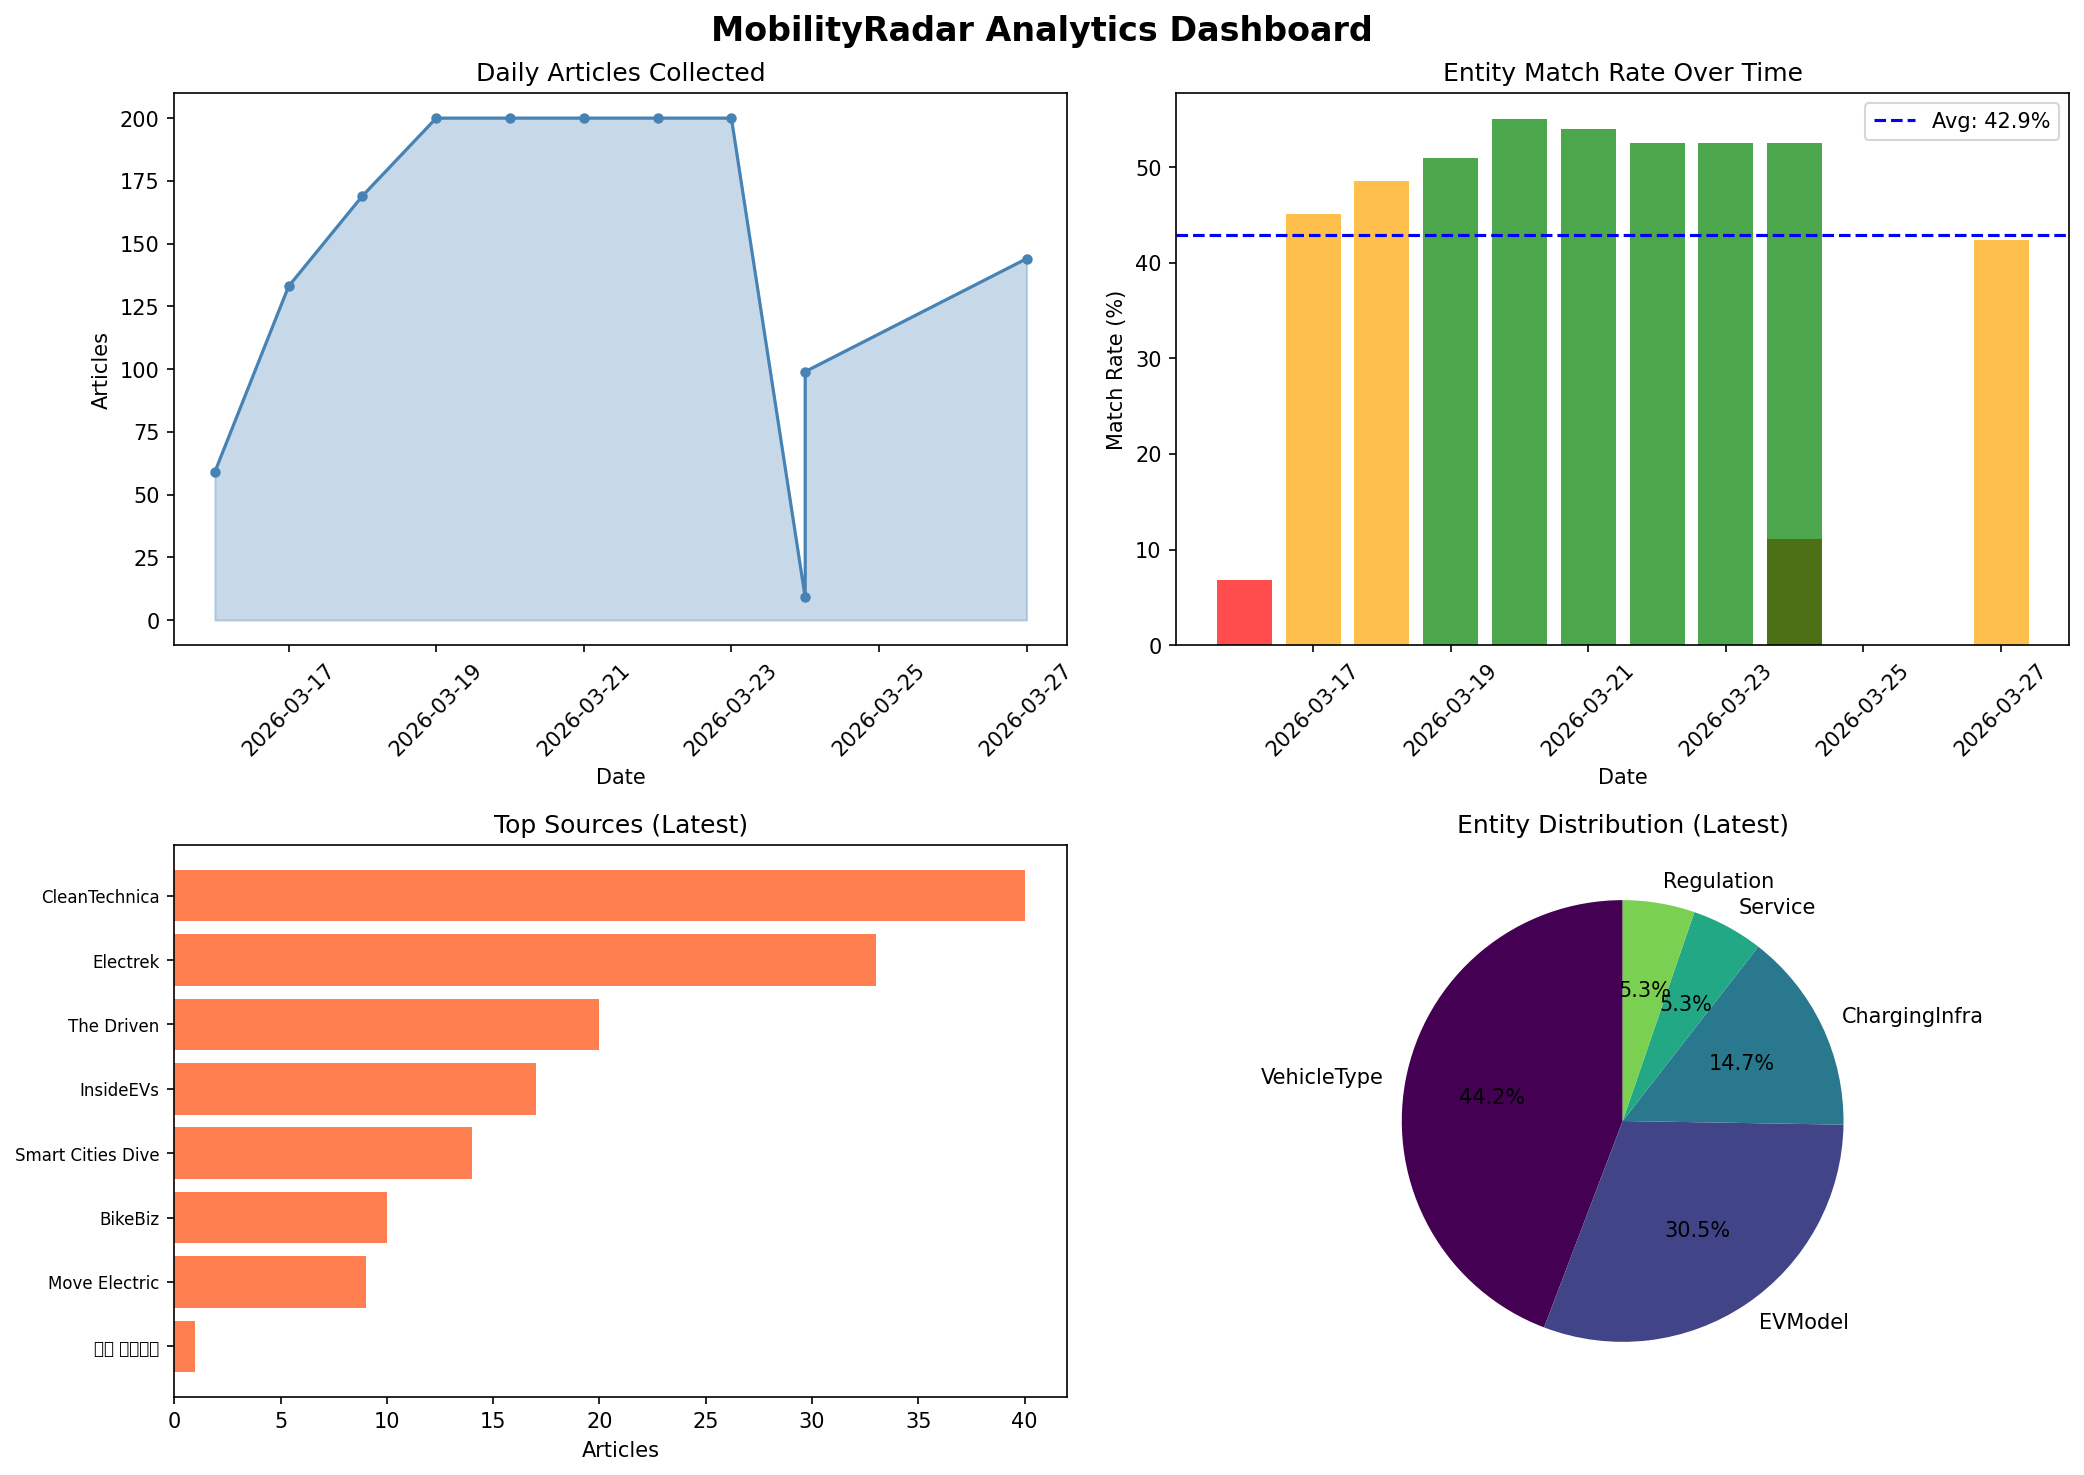
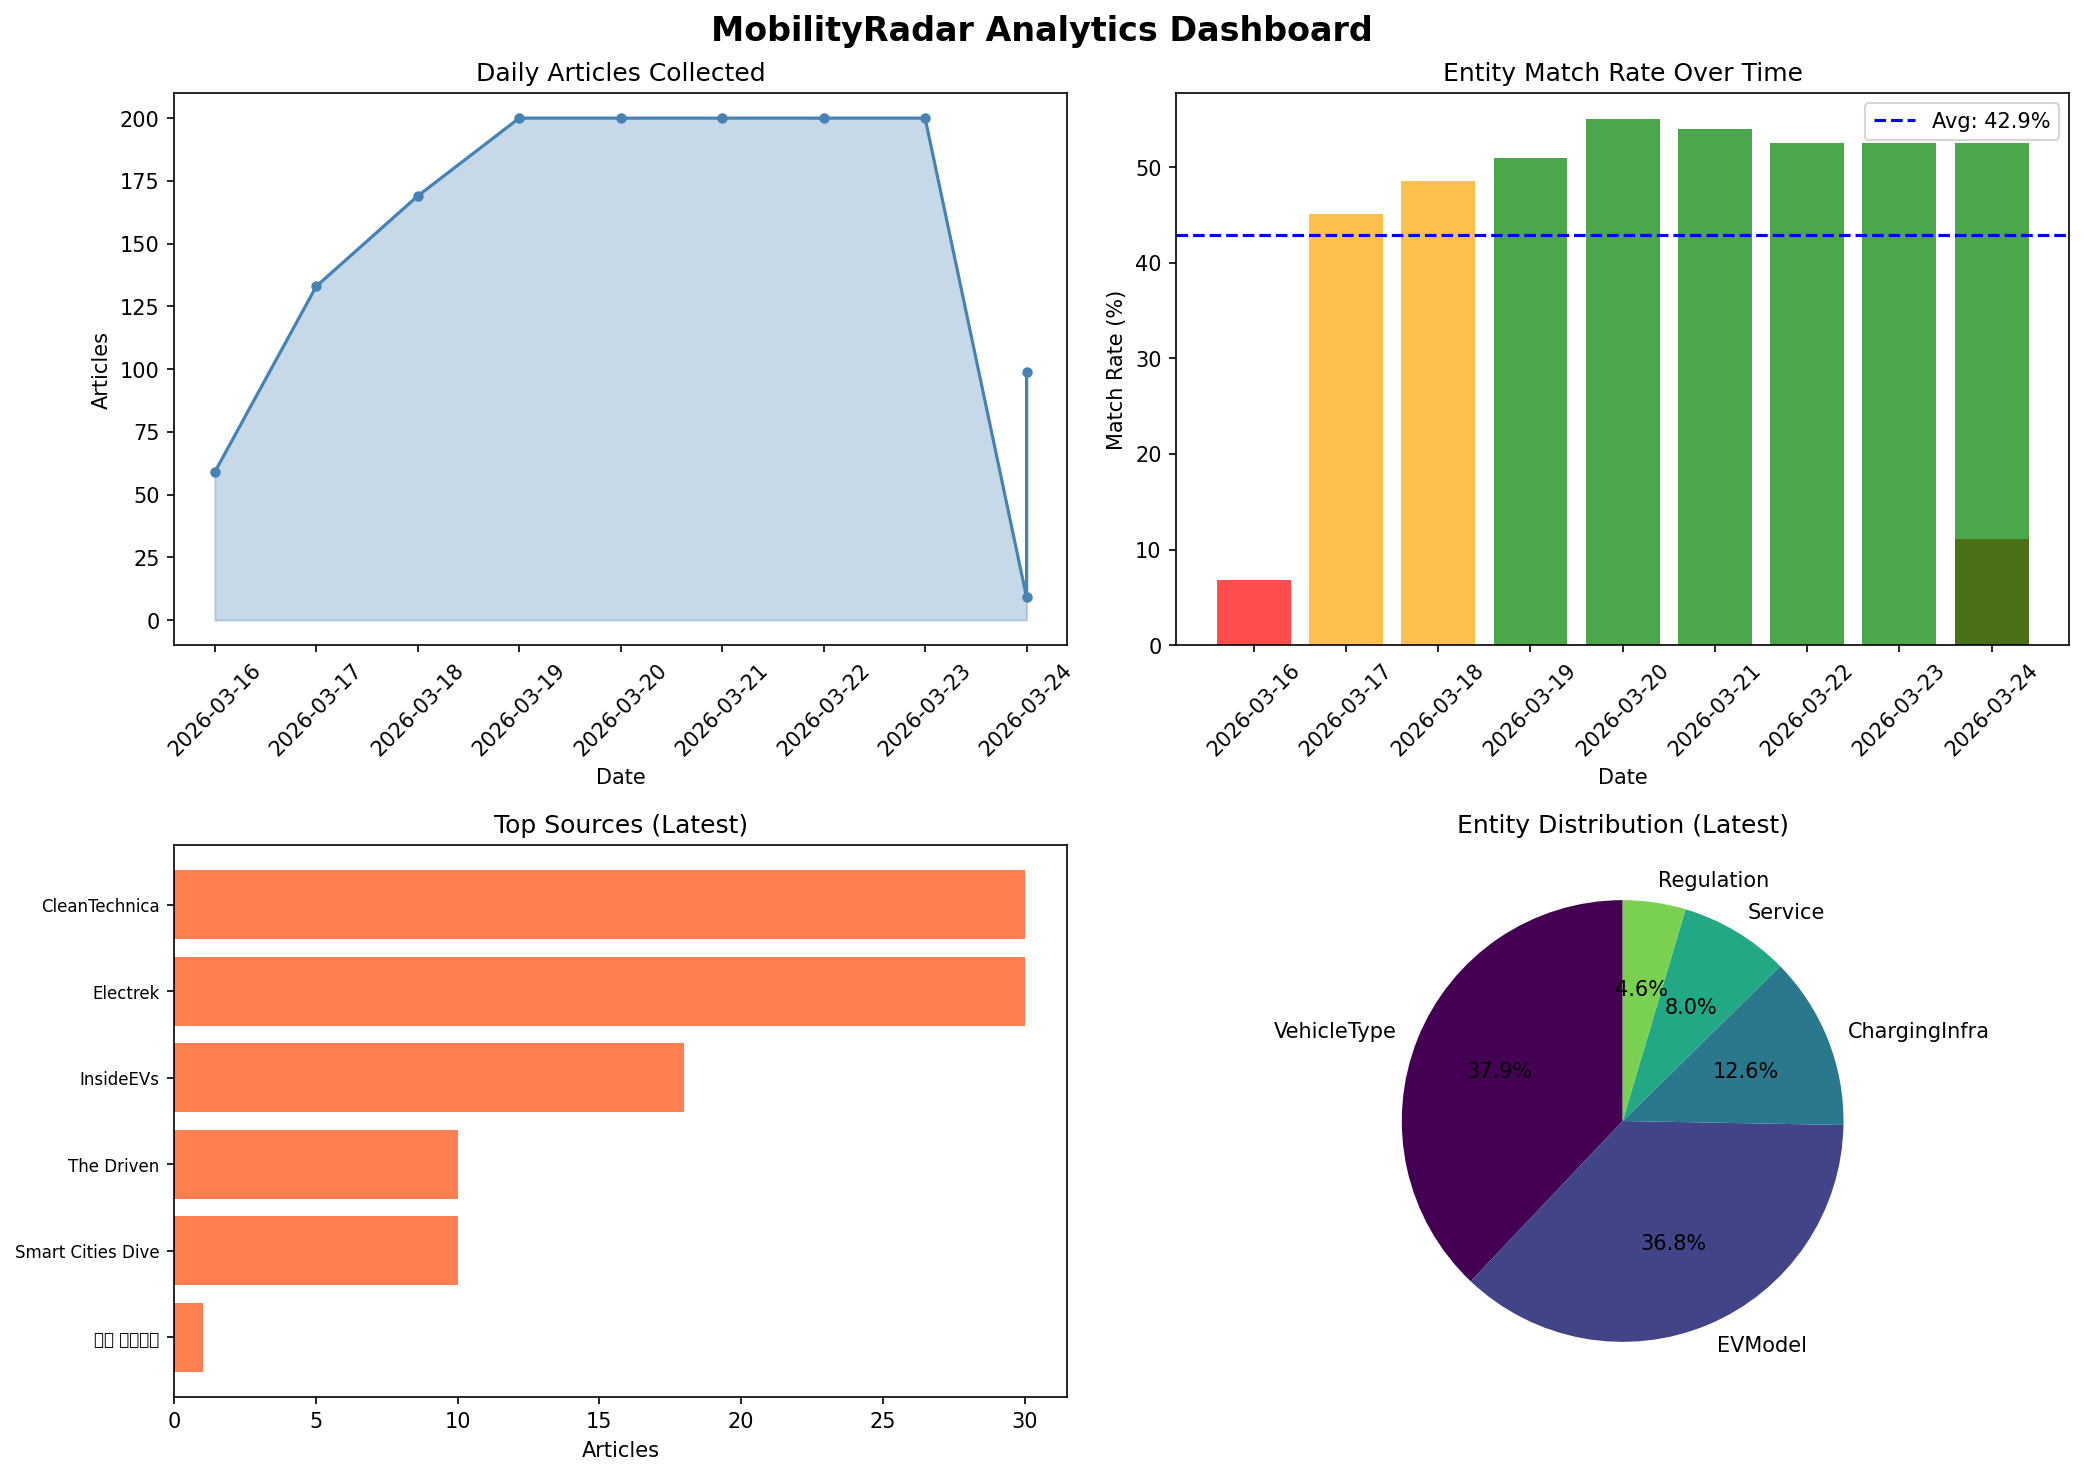
feat: add analytics dashboard

diff --git a/docs/analytics.html b/docs/analytics.html
@@ -43,15 +43,15 @@
     <div class="container">
         <div class="stats">
             <div class="stat-card">
-                <div class="stat-value">11</div>
+                <div class="stat-value">10</div>
                 <div class="stat-label">Total Reports</div>
             </div>
             <div class="stat-card">
-                <div class="stat-value">1,613</div>
+                <div class="stat-value">1,469</div>
                 <div class="stat-label">Total Articles</div>
             </div>
             <div class="stat-card">
-                <div class="stat-value">42.4%</div>
+                <div class="stat-value">52.5%</div>
                 <div class="stat-label">Latest Match Rate</div>
             </div>
             <div class="stat-card">
@@ -65,7 +65,7 @@
         </div>
 
         <div class="footer">
-            <p>Last updated: 2026-03-31 23:26</p>
+            <p>Last updated: 2026-03-31 23:30</p>
             <a href="https://ai-frendly-datahub.github.io/radar-dashboard/" class="back-link">
                 ← Back to Main Dashboard
             </a>
